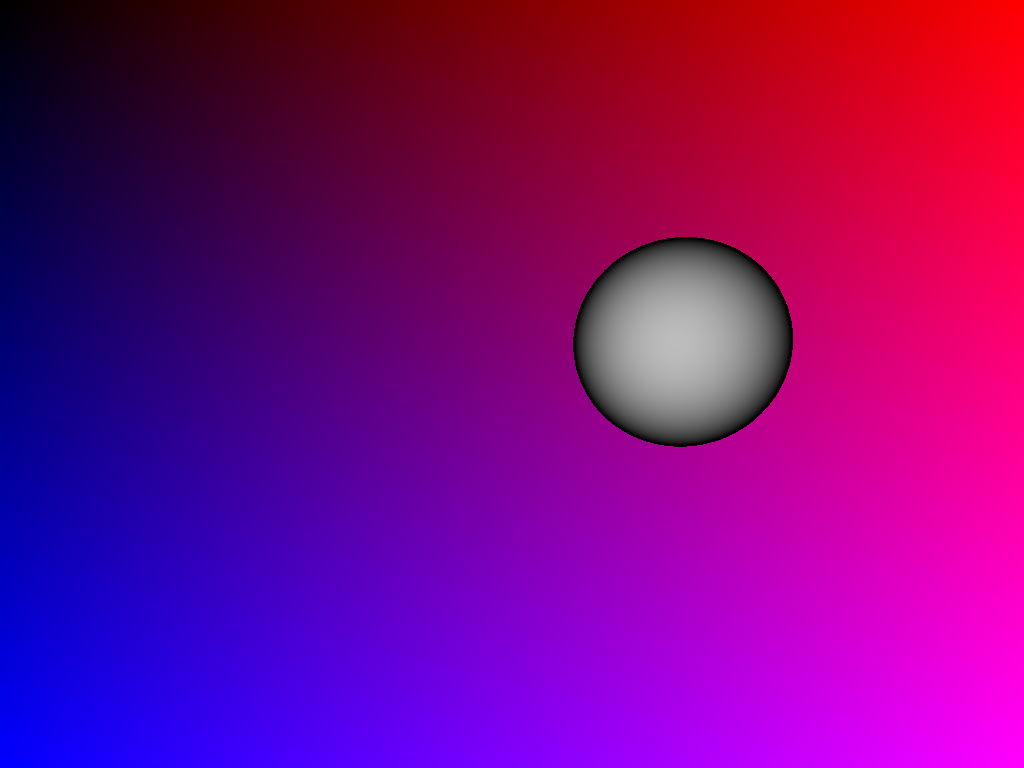
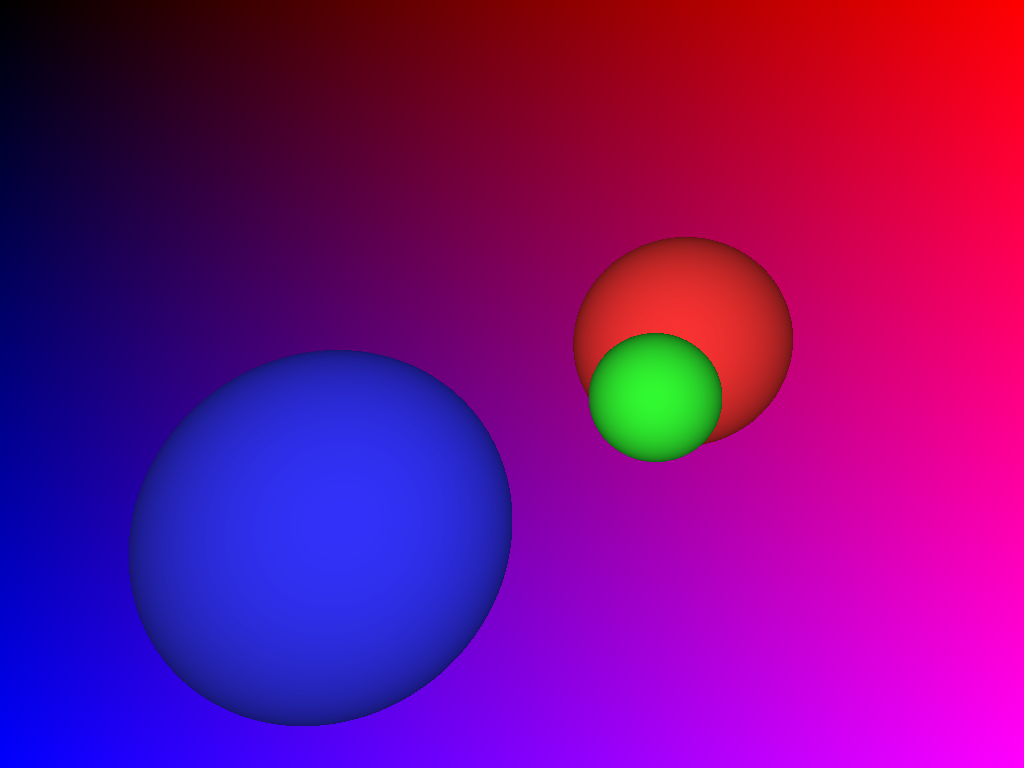
Add a couple more spheres to the scene

Changed region(s): [[0.125, 0.4375, 0.5, 0.9688], [0.5625, 0.2812, 0.7812, 0.625]]

diff --git a/src/main.rs b/src/main.rs
@@ -46,11 +46,28 @@ fn draw(buffer: &mut Buffer) {
     let (in_world_top_left, in_world_pixel_x_offset, in_world_pixel_y_offset) =
         set_up_3d_world(camera_position, looking_direction);
 
-    let sphere = Sphere {
-        origin: Vec3::new(3.2, 1.8, -10.0),
-        radius: 2.0,
-        diffuse_color: Rgb(50, 50, 50),
-    };
+    let spheres = vec![
+        Sphere {
+            origin: Vec3::new(3.2, 1.8, -10.0),
+            radius: 2.0,
+            diffuse_color: Rgb(250, 50, 50),
+        },
+        Sphere {
+            origin: Vec3::new(3.2, 1.8, -10.0),
+            radius: 1.0, // fully inside the previous sphere
+            diffuse_color: Rgb(0, 0, 0),
+        },
+        Sphere {
+            origin: Vec3::new(2.2, 0.8, -8.0),
+            radius: 1.0, // slighly close the camera then the first shpere
+            diffuse_color: Rgb(50, 250, 50),
+        },
+        Sphere {
+            origin: Vec3::new(-1.0, 0.2, -3.0),
+            radius: 1.0, // slighly close the camera then the first shpere
+            diffuse_color: Rgb(50, 50, 250),
+        },
+    ];
 
     for x in 0..WIDTH {
         for y in 0..HEIGHT {
@@ -61,21 +78,83 @@ fn draw(buffer: &mut Buffer) {
                 + in_world_top_left
                 - camera_position;
 
-            let distance = ray_intersects(&camera_position, &camera_to_pixel_direction, &sphere);
-            if distance.is_some() {
-                // distance should be in range between 8.0 to 10.0 for our particular sphere
-                // lets map that to the shades of grey (the closer the brigther)
-                let brightness = 255 - (255.0 * (distance.unwrap() - 8.0) / 2.0) as u8;
-                buffer.set(&Point(x, y), &Rgb(brightness, brightness, brightness));
+            match scene_intersect(&camera_position, &camera_to_pixel_direction, &spheres) {
+                Some((sphere, distance)) => {
+                    let distance_to_closest_point_on_sphere =
+                        (sphere.origin - camera_position).magnitude() - sphere.radius;
+
+                    let brightness =
+                        1.0 - (distance - distance_to_closest_point_on_sphere) / (sphere.radius * 1.4);
+                    // let brightness = 0.5;
+                    buffer.set(&Point(x, y), &(sphere.diffuse_color.clone() * brightness));
+                }
+                _ => (),
             }
         }
     }
 }
 
+#[derive(Debug)]
 struct Sphere {
     origin: Vec3,
     radius: f32,
     diffuse_color: Rgb,
+}
+
+fn scene_intersect<'a>(
+    ray_origin: &Vec3,
+    ray_direction: &Vec3,
+    spheres: &'a Vec<Sphere>,
+) -> Option<(&'a Sphere, f32)> {
+    let mut closest = f32::MAX;
+    let mut closest_sphere: Option<(&Sphere, f32)> = None;
+    for sphere in spheres {
+        closest_sphere = match ray_intersects(&ray_origin, &ray_direction, &sphere) {
+            Some(distance) => {
+                if distance < closest && distance > 0.0 {
+                    closest = distance;
+                    Some((sphere, distance))
+                } else {
+                    closest_sphere
+                }
+            }
+            None => closest_sphere,
+        }
+    }
+    closest_sphere
+}
+#[cfg(test)]
+mod scene_intersect_test {
+    use super::*;
+
+    #[test]
+    fn scene_intersect_picks_closest() {
+        let spheres = vec![
+            Sphere {
+                origin: Vec3::new(3.0, 0.0, 0.0),
+                radius: 1.0,
+                diffuse_color: Rgb(255, 0, 0),
+            },
+            Sphere {
+                origin: Vec3::new(4.0, 0.0, 0.0),
+                radius: 1.5,
+                diffuse_color: Rgb(0, 0, 0),
+            },
+            Sphere {
+                origin: Vec3::new(-10.0, 0.0, 0.0),
+                radius: 1.5,
+                diffuse_color: Rgb(0, 0, 255),
+            },
+        ];
+
+        let intersection = scene_intersect(
+            &Vec3::new(0.0, 0.0, 0.0),
+            &Vec3::new(1.0, 0.0, 0.0),
+            &spheres,
+        );
+
+        assert_eq!(intersection.unwrap().0.diffuse_color, Rgb(255, 0, 0));
+    }
 }
 
 fn ray_intersects(ray_origin: &Vec3, ray_direction: &Vec3, sphere: &Sphere) -> Option<f32> {

diff --git a/src/buffer.rs b/src/buffer.rs
@@ -1,3 +1,4 @@
+use std::ops::Mul;
 pub struct Point(pub u32, pub u32);
 
 pub struct Dimensions(pub u32, pub u32);
@@ -7,7 +8,49 @@ pub struct Buffer {
     width: u32,
 }
 
+#[derive(PartialEq, Debug, Clone)]
 pub struct Rgb(pub u8, pub u8, pub u8);
+
+impl Mul<f32> for Rgb {
+    type Output = Self;
+    fn mul(self, rhs: f32) -> Self::Output {
+        let new_r = self.0 as f32 * rhs;
+        let new_g = self.1 as f32 * rhs;
+        let new_b = self.2 as f32 * rhs;
+        assert!(
+            new_r <= 256.0,
+            "expected value in 0..256 range got {}",
+            new_r
+        );
+        assert!(
+            new_g <= 256.0,
+            "expected value in 0..256 range got {}",
+            new_g
+        );
+        assert!(
+            new_b <= 256.0,
+            "expected value in 0..256 range got {}",
+            new_b
+        );
+        Rgb((new_r) as u8, (new_g) as u8, (new_b) as u8)
+    }
+}
+
+#[cfg(test)]
+mod rgb_test {
+    use super::*;
+
+    #[test]
+    fn rgb_multiplication() {
+        assert_eq!(Rgb(100, 10, 200) * 0.8, Rgb(80, 8, 160));
+    }
+
+    #[test]
+    #[should_panic]
+    fn rgb_multiplication_out_of_bound() {
+        assert_eq!(Rgb(100, 10, 200) * 2.0, Rgb(80, 8, 160));
+    }
+}
 
 impl Buffer {
     pub fn new(dimensions: Dimensions, depth: u8) -> Buffer {
